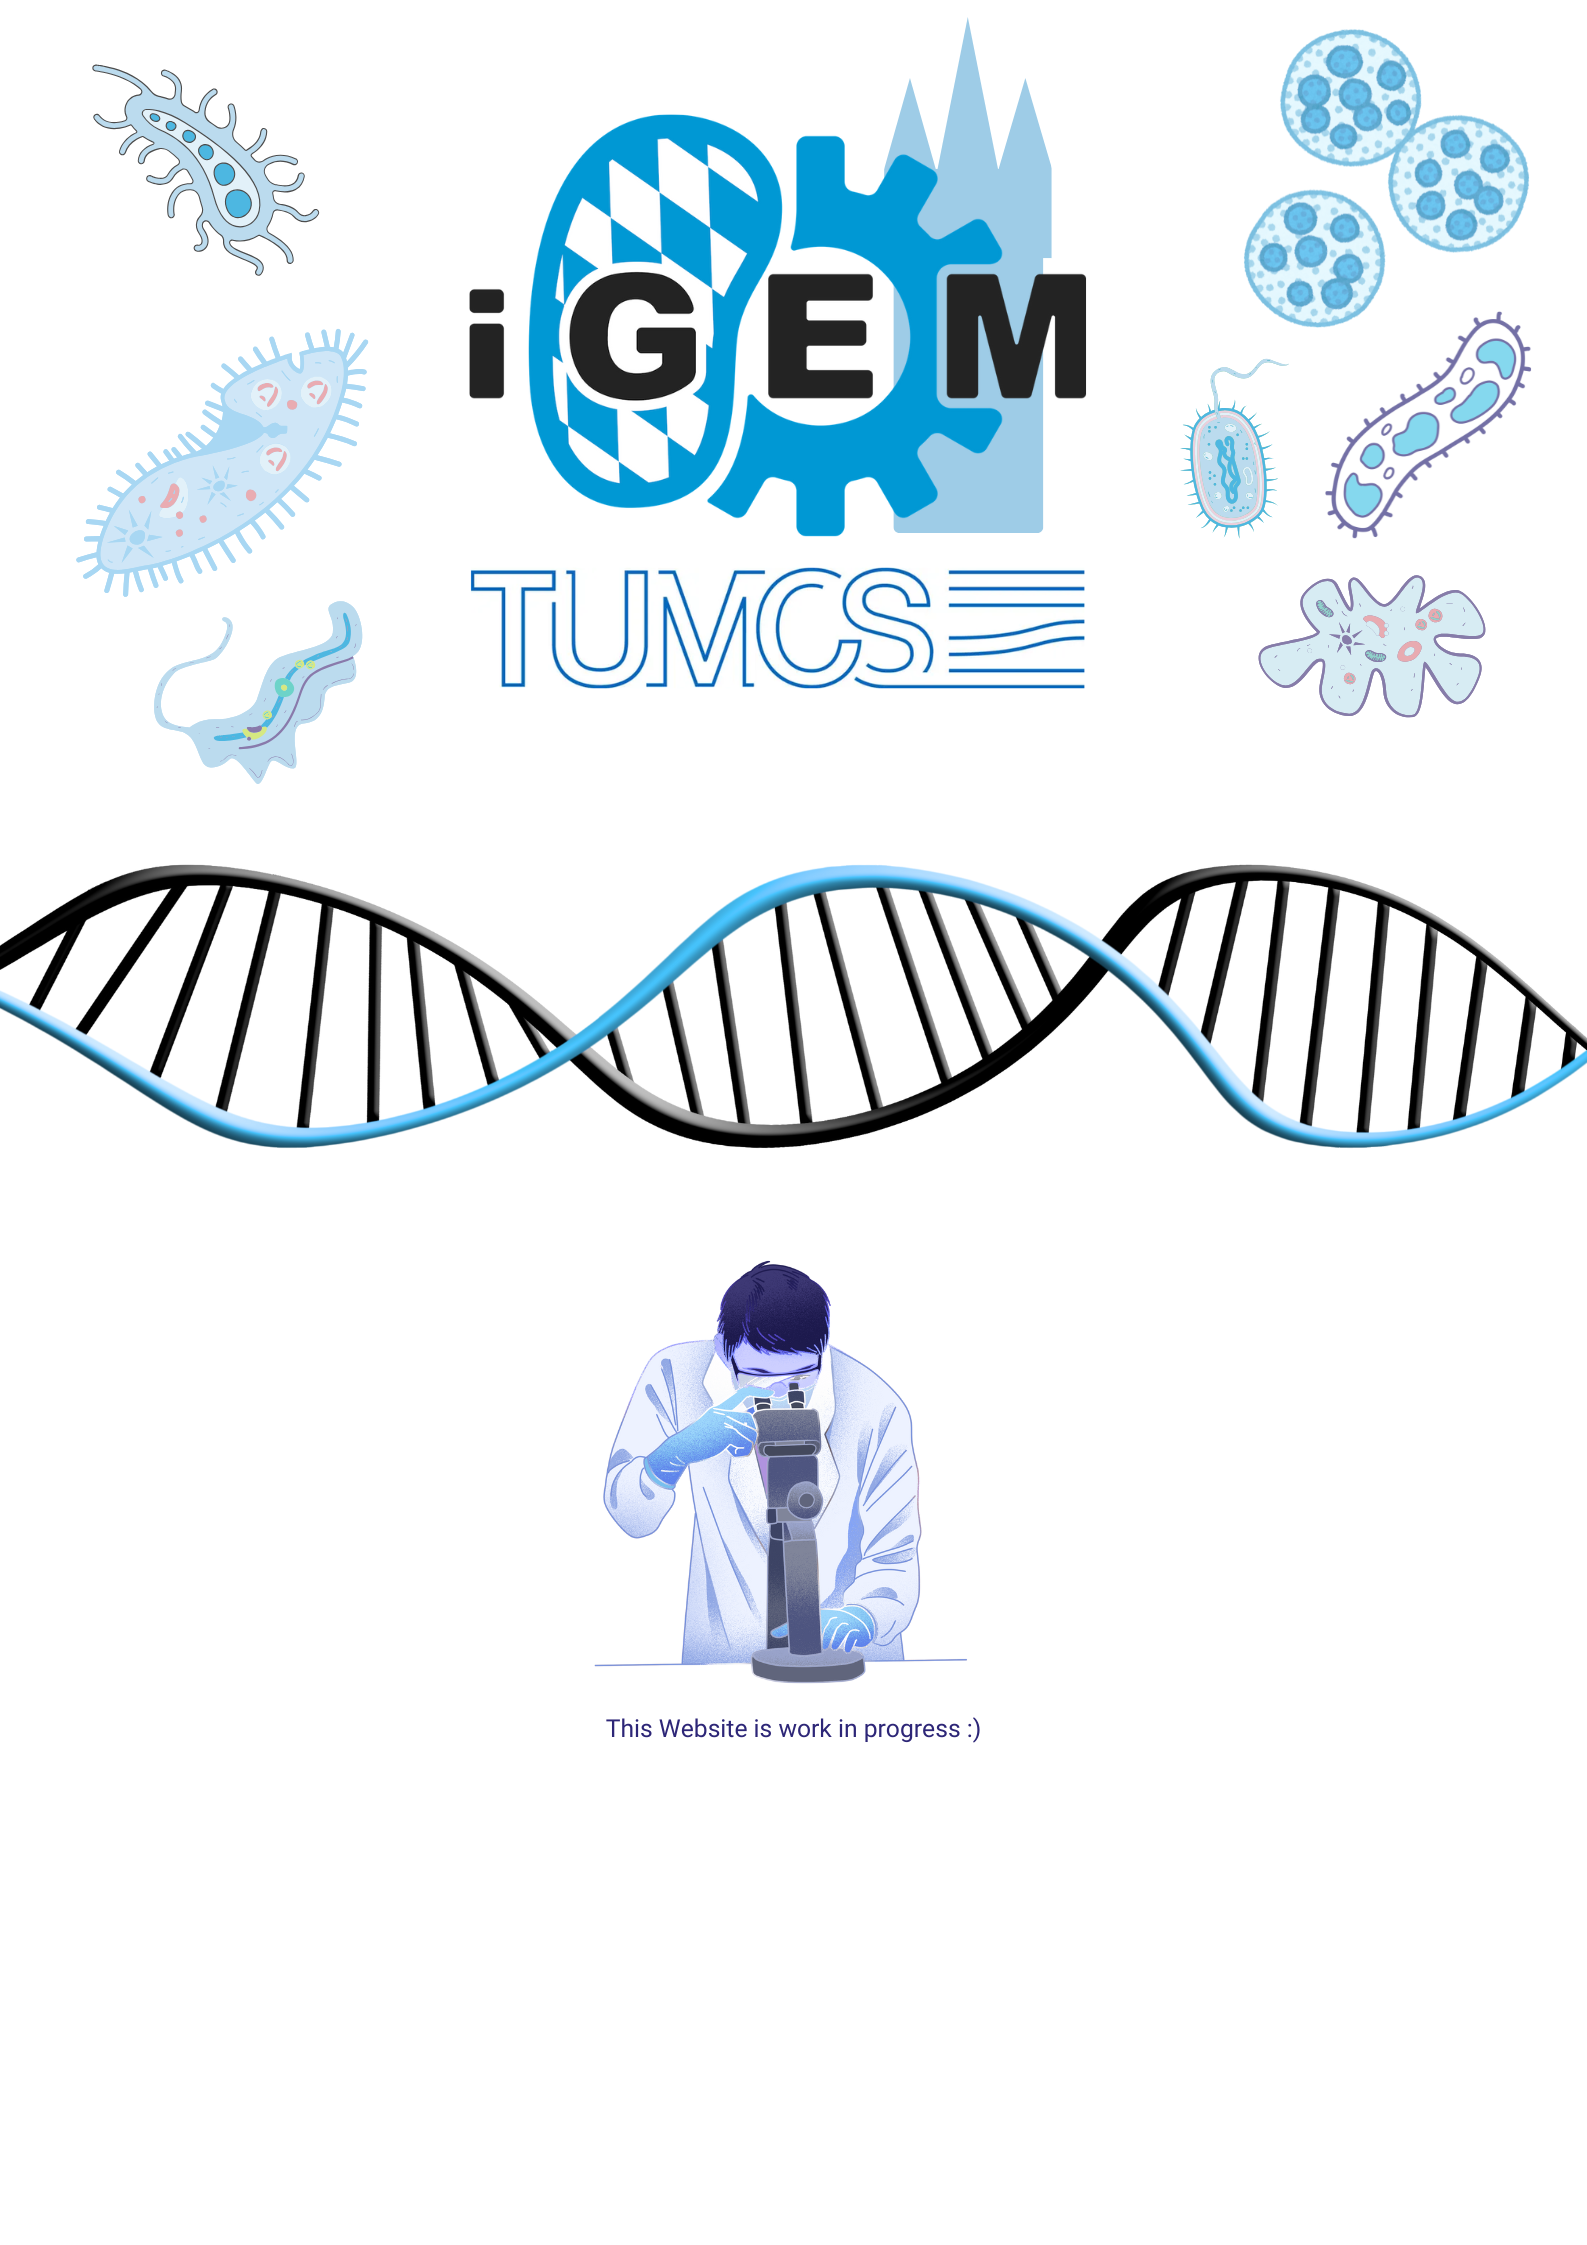
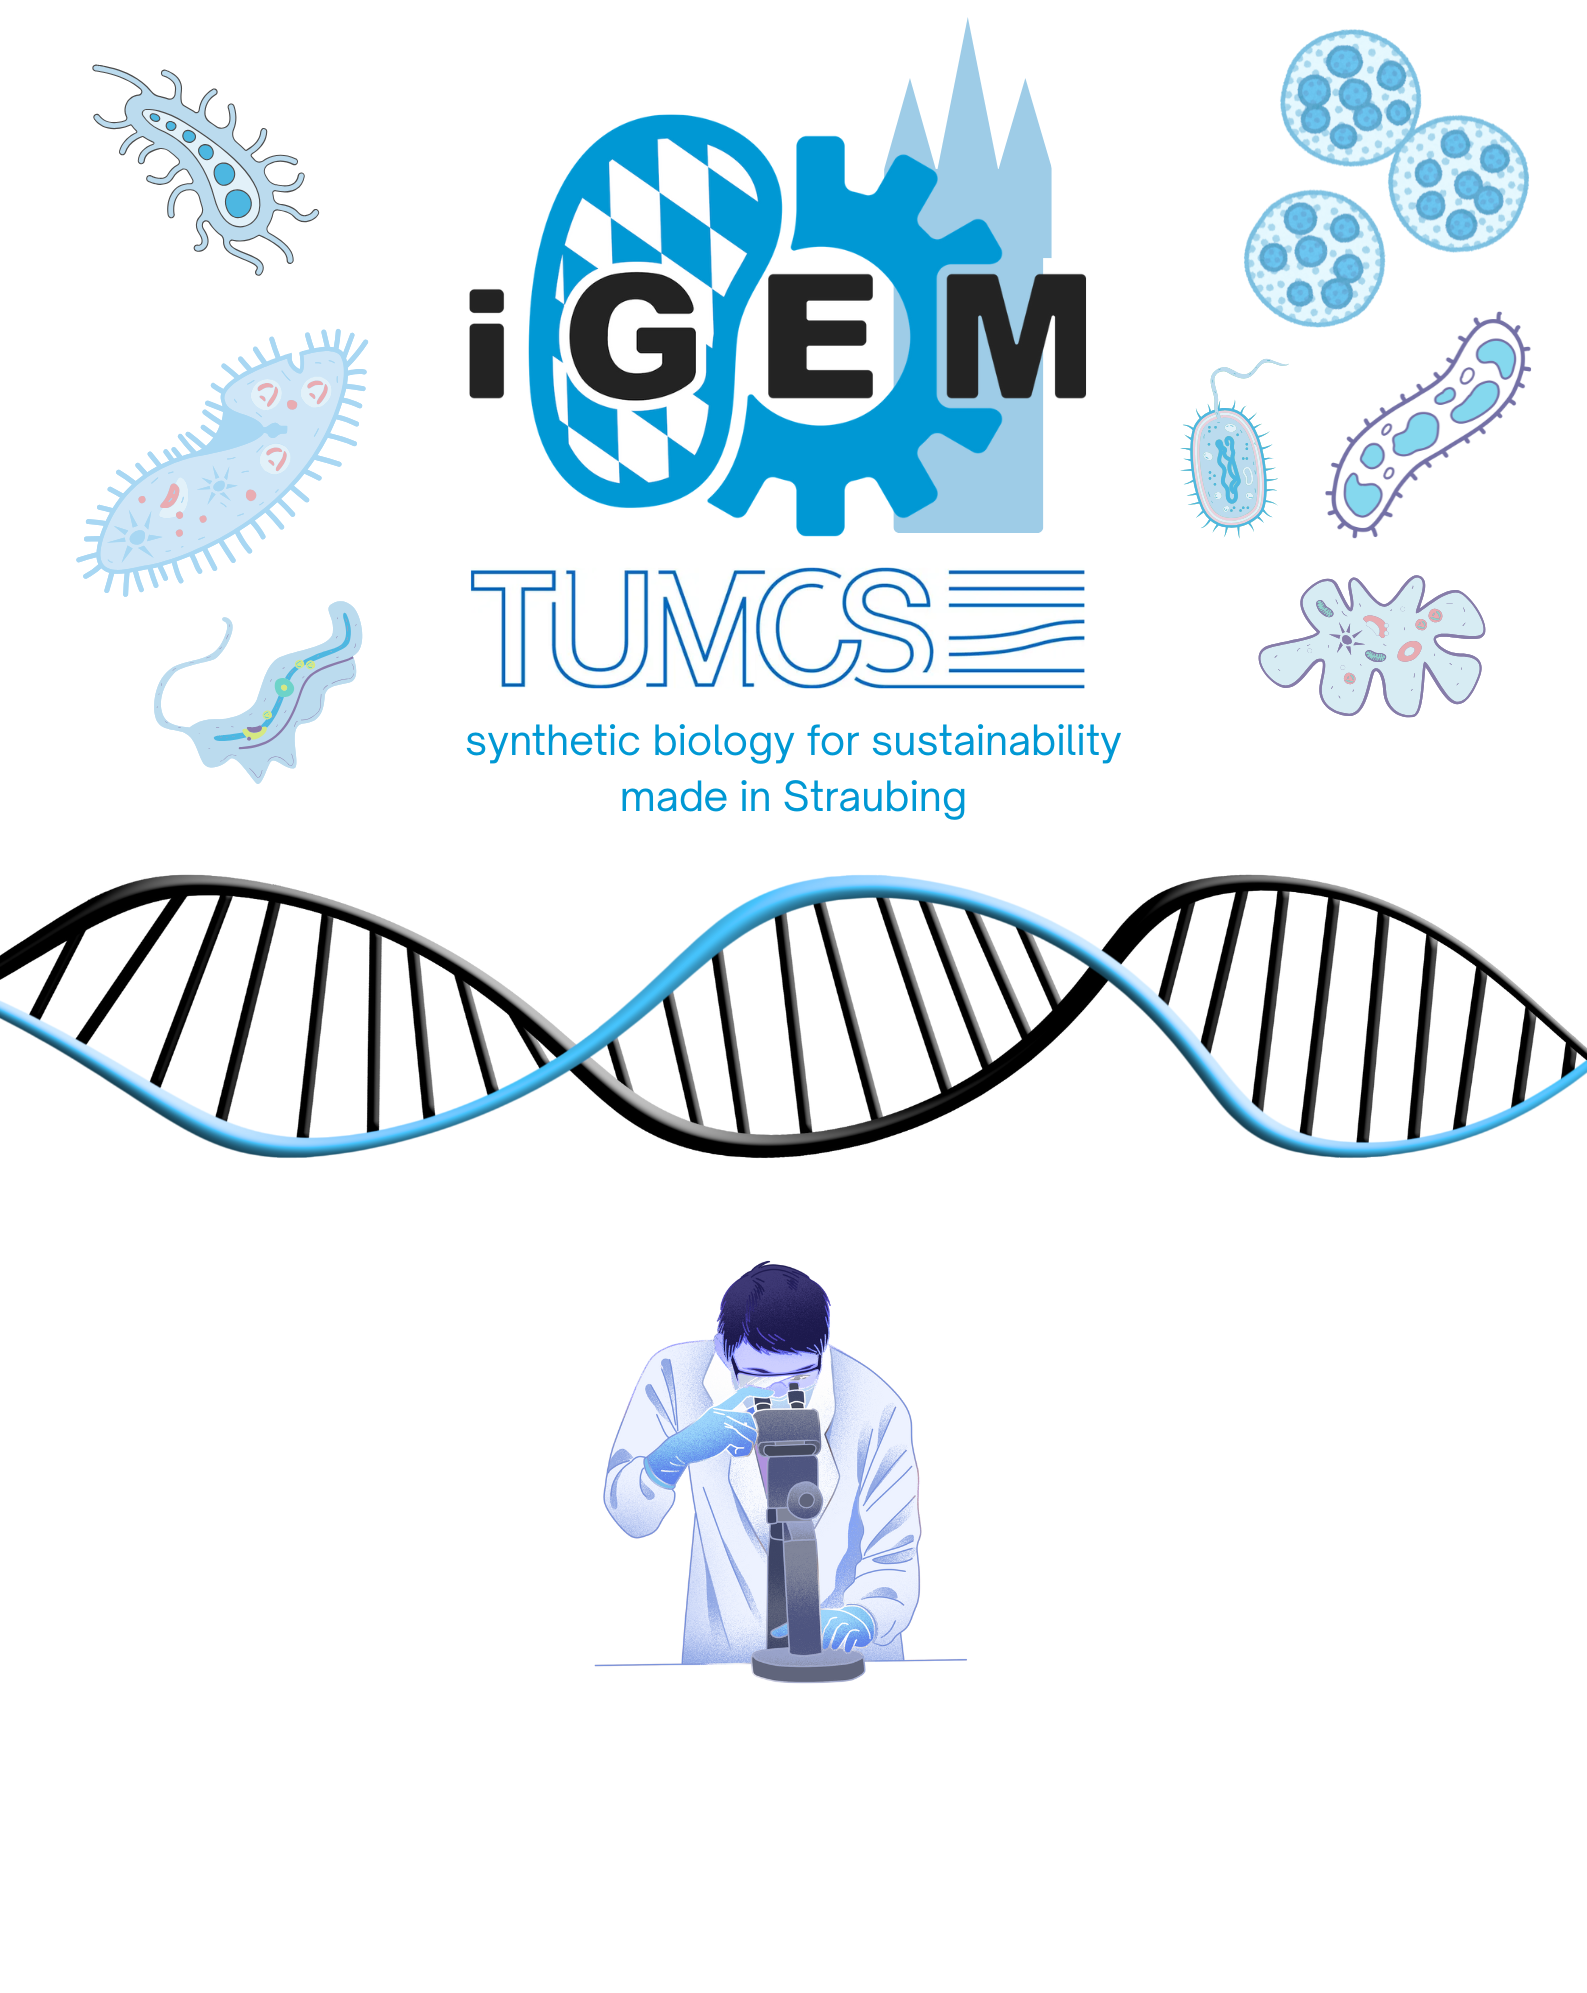
further updates

Changed region(s): [[0.0, 0.0, 1.0, 0.871]]

diff --git a/docs/styles/extra.css b/docs/styles/extra.css
@@ -1,14 +1,14 @@
-.mdx-hero img { width: 100%; height: auto; display: block; }
-
-/* Let the inner main grid span the full viewport on the homepage only */
+/* REQUIRED: Let the inner main grid span the full viewport on the homepage only */
 .mdx-container .md-grid {
-  max-width: initial;   /* removes the default ~61rem cap */
-  padding-left: 0;      /* optional: remove inner padding if you want true edge-to-edge */
-  padding-right: 0;     /* optional */
+  max-width: initial;   
+  padding-left: 0;     
+  padding-right: 0;     
   padding-bottom: 0;
 }
 
-/* If you also want content to butt against the edges, reset hero wrappers */
+/* This is only for image as content (init design) */
+.mdx-hero img { width: 100%; height: auto; display: block; }
+
 .mdx-hero {
   margin-left: 0;
   margin-right: 0;
@@ -16,25 +16,62 @@
 }
 
 
-/* Increase logo size (tune the rem/px to your needs) */
+/* Increase logo size and fix padding */
 .md-header__button.md-logo img,
 .md-header__button.md-logo svg {
-  height: 2.4rem;   /* e.g., ~38px on default root font size */
-  width: auto;      /* preserve aspect ratio */
+  height: 2.4rem;  
+  width: auto;      
 }
 
-/* Remove default padding for tighter fit */
 .md-header__button.md-logo {
   margin: 0;
   padding: 0;
 }
 
+/* centered button  */
 .button-center {
   display: flex;
   justify-content: center;
 }
 
-/* Ensure Material button remains shrink-to-content */
+/* shrink-to-content */
 .md-typeset a.md-button {
   display: inline-block;
+}
+
+
+/* THIS SECTION IS EXCLUSIVELY FOR MAKING THE BANNER AS BACKGROUND (DELETE IF IMAGE-INSERT INSTEAD OF BACKGROUND */
+.mdx-hero {
+  position: relative;
+  min-height: 284vh;                
+  height: auto;                    
+  max-height: none;                
+  background-image: url("../img/example_banner.png");
+  background-size: cover;
+  background-position: center;
+  background-repeat: no-repeat;
+  margin: 0;
+  overflow: visible;                
+}
+
+/* Place overlay content above the background */
+.mdx-hero__content {
+  align-items: center;
+  justify-content: center;
+  text-align: center;
+}
+
+.spacer-5 { height: 5rem; }
+.spacer-10 { height: 10rem; }
+
+.homepage-grid {
+  display: grid;
+  grid-template-columns: repeat(auto-fit, minmax(5rem, 1fr));
+  gap: 0.75rem;
+  margin-left: auto;
+  margin-right: auto;
+  padding-left: 0.75rem;        
+  padding-right: 0.75rem;
+  max-width: 35rem;             
+  place-content: center;       
 }

diff --git a/docs/overrides/home.html b/docs/overrides/home.html
@@ -21,23 +21,16 @@
   <section class="mdx-container">
     <div class="md-grid md-typeset">
       <div class="mdx-hero">
-        <div class="mdx-hero__image">
-          <img src="{{ 'img/example_banner.png' | url }}" alt="Banner" draggable="false" />
-        </div>
         <div class="mdx-hero__content">
-          {# CTA or text here #}
+          {{ page.content }}  
+        </div>
+        <div class="mdx-hero__image">
+          <!--Use this for the image as content not background!-->
+          <!--<img src="{{ 'img/example_banner.png' | url }}" alt="Banner" draggable="false" />--> 
         </div>
       </div>
     </div>
   </section>
 {% endblock %}
-
-<!--
-{# Do not render the default content title; include only the body if desired #}
-{% block content %}
-  {# Render Markdown body without injecting an auto title #}
-  {{ page.content }}
-{% endblock %}
--->
 
 

diff --git a/docs/about.md b/docs/about.md
@@ -12,11 +12,11 @@ The iGEM Straubing team represents the **student-led** synthetic biology team fr
 
 Our team combines diverse expertise from chemical biotechnology, bioprocessing, biogenic energy utilization, and business exertise—reflecting the unique interdisciplinary and international character of our campus. This diversity is our strength, enabling us to approach complex scientific challenges from multiple perspectives and develop holistic, innovative solutions.
 
-### TUM Straubing Campus
+### Technical University of Munich Campus Straubing
 
 <div class="grid" markdown>
 
-The TUM Campus Straubing for Biotechnology and Sustainability is an Integrative Research Institute of the Technical University of Munich, uniquely positioned at the intersection of natural sciences, biotechnology, engineering, and economics. Located in Straubing—the region of renewable resources—our campus is at the heart of developing and scaling biotechnological processes.
+The Technical University of Munich (TUM) Campus Straubing for Biotechnology and Sustainability is an Integrative Research Institute of the Technical University of Munich, uniquely positioned at the intersection of natural sciences, biotechnology, engineering, and economics. Located in Straubing—the region of renewable resources—our campus is at the heart of developing and scaling biotechnological processes.
 
 ![tumcs](img/tumcs_ma.png){ align=right }
 
@@ -43,14 +43,21 @@ Our campus offers interdisciplinary study programs including:
 This multidisciplinary environment provides our team with access to cutting-edge facilities, diverse expertise, and a community committed to developing sustainable technologies that address pressing global issues.
 
 ## The iGEM Competition
+The iGEM Competition is an annual, worldwide synthetic biology event aimed at undergraduate university students, as well as high school and graduate students. Multidisciplinary teams work together to design, build, test, and measure a system of their own design using interchangeable biological parts and standard molecular biology techniques. You can find more information in the official iGEM documentation:
+
+* [What is the process that an iGEM project goes through?](https://competition.igem.org/about/navigating-igem)
 
 ## Our Achievements at iGEM
 
 ### iGEM 2024: Bluebear Bio Project
 
-In our inaugural year competing as the very first iGEM team from TUM Campus Straubing, we achieved remarkable success with our [**Bluebear Bio: Cell-Free for All**](https://2024.igem.wiki/tum-straubing/) project.
+<div class="grid" markdown>
 
-Our 2024 project focused on developing desiccated cell-free transcription-translation (TXTL) systems to make synthetic biology tools more accessible worldwide. By harnessing tardigrade proteins' resilience and developing cost-effective energy mixes, we created a solution that eliminates cold chain requirements and significantly reduces expenses. This innovation opens new opportunities for labs in resource-limited areas, advancing democratization of biotechnology.:
+In our inaugural year competing as the very first iGEM team from TUM Campus Straubing, we achieved remarkable success with our [**Bluebear Bio: Cell-Free for All**](https://2024.igem.wiki/tum-straubing/) project. <br><br>
+Our 2024 project focused on developing desiccated cell-free transcription-translation (TXTL) systems to make synthetic biology tools more accessible worldwide. By harnessing tardigrade proteins' resilience and developing cost-effective energy mixes, we created a solution that eliminates cold chain requirements and significantly reduces expenses. This innovation opens new opportunities for labs in resource-limited areas, advancing democratization of biotechnology.
+
+![jamboree](img/jamboree.jpeg){ align=left }
+</div>
 
 ??? success "**Awards & Recognition:**"
 
@@ -93,11 +100,11 @@ You can join one of many specialised teams:
     Computational modeling, data analysis, and bioinformatics
 
 
-- **Engineering:**
+- **Human Practices & Social Media:**
 
     ---
 
-    Technical development and system optimization
+    Social Engagement in the Team, on Campus and Online
 
 - **Project Management:**
 
@@ -107,7 +114,6 @@ You can join one of many specialised teams:
 </div>
 <br>
 <span style="color: #0066b3;">**For more information on how to join or contribute, please shoot us a message and:**</span>
-
 <div class="grid" markdown>
 
 [Follow us on Instagram](https://www.instagram.com/igem.straubing/){ .md-button .md-button--primary }

diff --git a/docs/index.md b/docs/index.md
@@ -7,11 +7,23 @@ hide:
   - footer
 ---
 
-<div class="mdx-hero"></div>
+<div class="spacer-10"></div>
+<div class="spacer-10"></div>
+<div class="spacer-10"></div>
+<div class="spacer-10"></div>
+<div class="spacer-10"></div>
+<div class="spacer-10"></div>
+<div class="spacer-10"></div>
+<div class="spacer-10"></div>
+<div class="spacer-10"></div>
 
-#
+<div class="homepage-grid" markdown >
+
+[Sponsor Us](sponsoring){ .md-button  }
+
+[Our Projects](about/#our-achievements-at-igem){ .md-button }
+
+[Join Us](about/#join-us){ .md-button }
 
 
-<!-- [Learn more](https://www.igem-straubing.de/mysite/about/){ .md-button .md-button--primary align=center} -->
-
-
+</div>

diff --git a/docs/sponsoring.md b/docs/sponsoring.md
@@ -1,1 +1,31 @@
-# Coming soon...
+---
+hide:
+    - toc
+    - navigation
+---
+
+# Partnerships for Companies and Organizations
+
+<div class="grid cards" markdown>
+
+- ## Sponsorships
+    
+    ---
+    **Become a permanent or one-off sponsor for:**
+
+    - Supply of Research Material
+    - Travel expenses
+    - Registration fees
+
+- ## Events
+
+    ---
+    **We try to organize regular events to connect industry and students:**
+
+    - Workshops
+    - Networking-Events
+    - Mentorships
+    
+</div>
+
+### for further inquiry, please contact us at info@igem-straubing.de

diff --git a/docs/Contact.md b/docs/Contact.md
@@ -10,7 +10,7 @@ info@igem-straubing.de
 
 ## Anschrift
 
-iGEM Straubing / Prof Niederholtmeyer
+iGEM Straubing e.V. / Prof Niederholtmeyer
 
 Technical University of Munich
 
